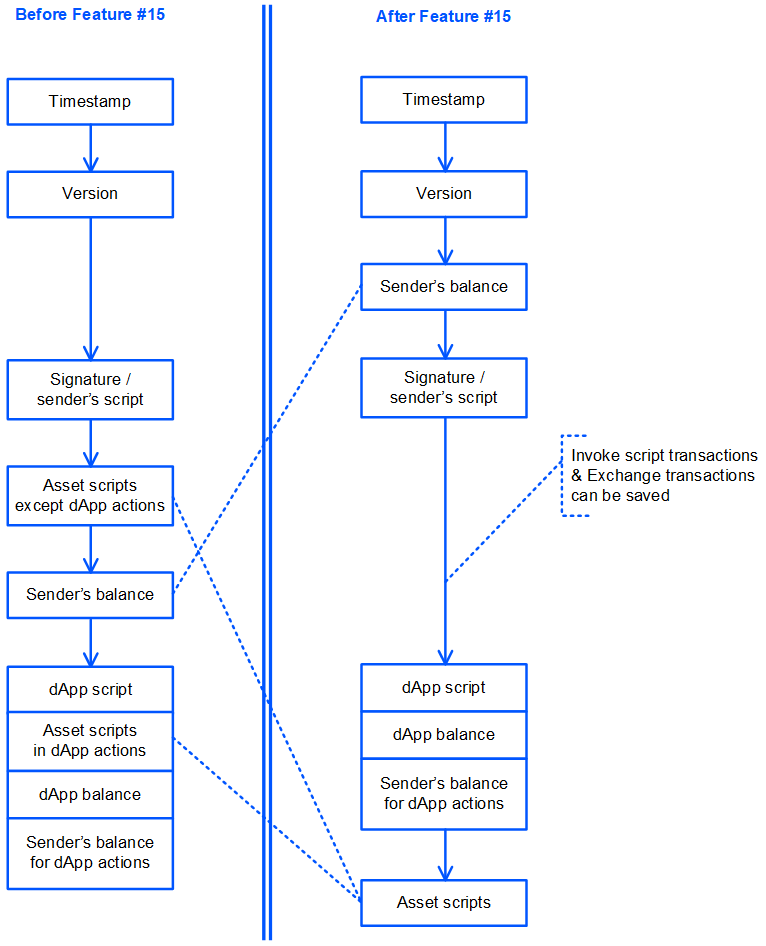
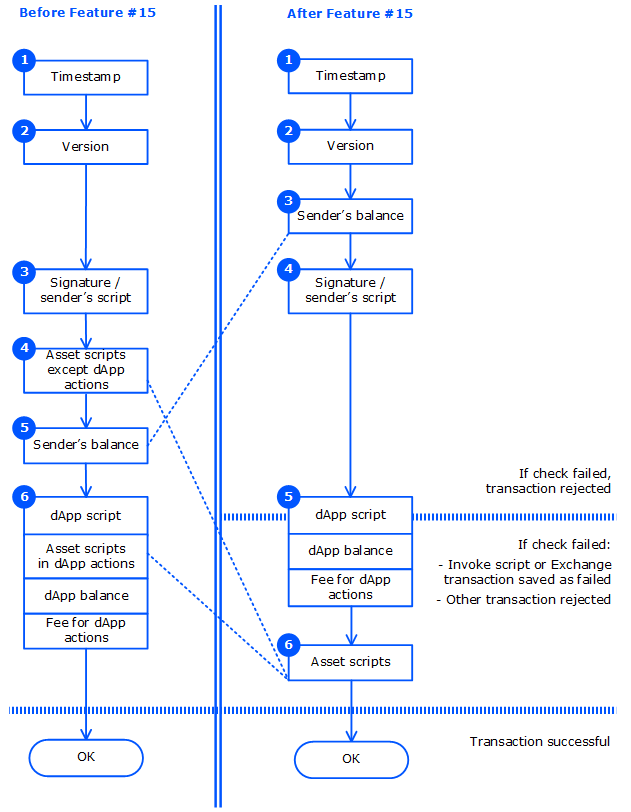
DOC-656 SME review

diff --git a/docs/ru/blockchain/transaction/transaction-validation.md b/docs/ru/blockchain/transaction/transaction-validation.md
@@ -28,10 +28,14 @@
    В зависимости от типа транзакции: достаточно ли средств для перевода и обмена ассетов, для перечисления платежей, приложенных к транзакции вызова скрипта.
 
 6. Для транзакции вызова скрипта:
-   * Выполнение dApp-скрипта.
-   * Верификация скриптами ассетов, если в [действиях скрипта](/ru/ride/structures/script-actions/) используются смарт-ассеты.
-   * Проверка баланса dApp: достаточно ли средств на выполнение [действий скрипта](/ru/ride/structures/script-actions/).
-   * Проверка баланса отправителя: достаточно ли средств на оплату дополнительной комиссии за действия скрипта.
+
+   6.1. Вычисление результата вызываемой функции dApp-скрипта.
+
+   6.2. Верификация скриптами ассетов, если в [действиях скрипта](/ru/ride/structures/script-actions/) используются смарт-ассеты.
+
+   6.3. Проверка баланса dApp: достаточно ли средств на выполнение [действий скрипта](/ru/ride/structures/script-actions/).
+
+   6.4. Проверка, что комиссия за транзакцию не ниже минимальной комиссии с учетом действий скрипта.
 
 Транзакция сохраняется в блокчейне и за нее взимается комиссия, если она успешно прошла все проверки.
 
@@ -58,7 +62,7 @@
 
    5.2. Проверка баланса dApp: достаточно ли средств на выполнение [действий скрипта](/ru/ride/structures/script-actions/).
 
-   5.3. Проверка баланса отправителя: достаточно ли средств на оплату дополнительной комиссии за действия скрипта.
+   5.3. Проверка, что комиссия за транзакцию не ниже минимальной комиссии с учетом действий скрипта.
 
 6. Верификация транзакции скриптами ассетов, если в транзакции используются [смарт-ассеты](/ru/blockchain/token/smart-asset), включая скрипты ассетов в действиях скрипта.
 
